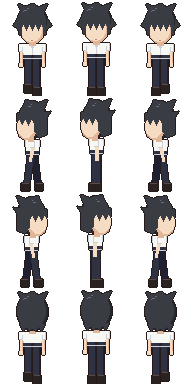
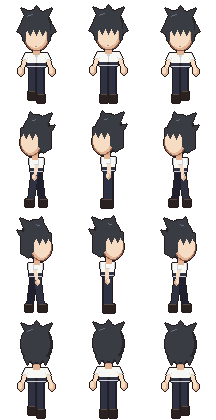
歩行グラフィックを参考と同じドット数（1コマ72×105px）にし、腕を外へ開いて手を大きく、あごと首を分ける
Claude-Session: https://claude.ai/code/session_017gxvkc2TW4xYgG5MuSL3N1

Changed region(s): [[0.7188, 0.0, 0.9375, 1.0], [0.0625, 0.0, 0.2812, 1.0], [0.4062, 0.0, 0.625, 1.0]]

diff --git a/files.js b/files.js
@@ -2,7 +2,7 @@
 // マップなどを足したら scripts に1行足す（順番どおりに読み込む。main.js は最後）。
 // 版の番号 v は tools/stamp.py が書き換える。
 window.FILES = {
-  v: '20261127023249',
+  v: '20261127023703',
   scripts: [
     'engine/core.js',
     'engine/world.js',

diff --git a/tools/sprites/make_chars.py b/tools/sprites/make_chars.py
@@ -1,4 +1,4 @@
-"""キャラクターの歩行グラフィックを一から描いて img/chars/*.png に書き出す（1コマ64×96px、等倍表示）。
+"""キャラクターの歩行グラフィックを一から描いて img/chars/*.png に書き出す（1コマ72×105px＝参考と同じ、等倍表示）。
 比率は参考のドットを測って合わせた。マップに合わせて、やや上から見下ろす角度で描く（頭頂の髪が厚く、顔と目は頭の下寄り、首はほぼ見えず、胴と脚は縦に詰まり、靴は甲が見える）。
 
 使い方：python3 tools/sprites/make_chars.py
@@ -10,8 +10,9 @@ from pathlib import Path
 from PIL import Image, ImageDraw
 
 ROOT = Path(__file__).resolve().parents[2]
-FW, FH = 64, 96
-CX = 32
+FW, FH = 72, 105  # 参考のドットと同じ1コマの大きさ
+CX = 36
+SY, OY = 1.02, 8  # 全身の高さを参考と同じ約94pxに（上端 y≈10、足元 y≈103）
 OUTLINE = (38, 26, 26, 255)
 
 
@@ -33,8 +34,8 @@ class Pen:
 
     def t(self, x, y):
         if self.k != 1:  # 頭
-            return (round(CX + x * HEAD_KX), round(y * HEAD_KY))
-        return (round(CX + x * KX), round(body_y(y)))
+            return (round(CX + x * HEAD_KX), round(OY + y * HEAD_KY * SY))
+        return (round(CX + x * KX), round(OY + body_y(y) * SY))
 
     def b(self, box):
         x0, y0, x1, y1 = box
@@ -73,7 +74,7 @@ HEAD_KX, HEAD_KY = 1.0, 1.12  # 頭の倍率（横・縦）
 HEAD_K = 1.12
 # やや上から見下ろす角度：胴から下の縦位置を、参考を測った比率に合わせて詰める
 # （あご≒全身の39%、胴は短く、スカートは55〜83%、靴は87〜99%）
-BODY_Y = [(0, 0), (44, 40), (56, 52), (80, 80), (91, 92), (96, 96)]
+BODY_Y = [(0, 0), (44, 43), (56, 54), (80, 80), (91, 92), (96, 96)]  # 44→43：あごの下に首を見せる
 
 
 def body_y(y):
@@ -131,11 +132,6 @@ def legs_side(p, ch, step):
 # ---------------- 胴（短め） ----------------
 def body_front(p, ch, back=False):
     girl = ch['gender'] == 'girl'
-    for s in (-1, 1):  # 腕（半袖）
-        x0 = -16 if s < 0 else 12
-        p.rect((x0, 44, x0 + 4, 51), 'W', 'w')
-        p.rect((x0 + 1, 52, x0 + 3, 62), 'S', 's')
-        p.rect((x0, 62, x0 + 3, 65), 'S')
     if girl:  # 裾の広がったスカート
         p.poly([(-11, 55), (11, 55), (18, 80), (-18, 80)], 'K')
         for x in (-10, -4, 4, 10):
@@ -157,6 +153,16 @@ def body_front(p, ch, back=False):
         p.poly([(-3, 51), (3, 51), (2, 56), (-2, 56)], 'R')
         p.poly([(-3, 51), (-7, 54), (-3, 54)], 'R')
         p.poly([(3, 51), (7, 54), (3, 54)], 'R')
+    arms_front(p)
+
+
+def arms_front(p):
+    """腕（半袖）：肩から外へ開き、手はスカートの横に出す"""
+    for s in (-1, 1):
+        p.poly([(s * 10, 44), (s * 14, 44), (s * 17, 51), (s * 13, 52)], 'w')
+        p.poly([(s * 10, 44), (s * 13, 44), (s * 16, 50), (s * 13, 51)], 'W')
+        p.poly([(s * 13, 52), (s * 16, 51), (s * 20, 61), (s * 17, 62)], 'S')
+        p.ell((s * 19 - 3, 59, s * 19 + 3, 66), 'S', 's')
 
 
 def body_side(p, ch, step):
@@ -175,7 +181,7 @@ def body_side(p, ch, step):
         p.poly([(-9, 48), (-6, 48), (-6, 54), (-9, 54)], 'R')
     p.rect((-2, 45, 3, 51), 'W', 'w')  # 手前の腕（歩くと前後にふれる）
     p.poly([(-1, 52), (2, 52), (2 + swing, 62), (-1 + swing, 62)], 'S')
-    p.rect((-1 + swing, 62, 2 + swing, 64), 'S')
+    p.ell((-2 + swing, 60, 3 + swing, 66), 'S', 's')
 
 
 # ---------------- 頭 ----------------
@@ -194,7 +200,9 @@ def head_front(p, ch):
         p.poly([(5, 3), (15, -1), (11, 7)], 'H')
         p.poly([(-15, 13), (-19, 19), (-14, 22)], 'H')
         p.poly([(15, 13), (19, 19), (14, 22)], 'H')
-    p.rect((-3, 33, 3, 37), 's')
+    p.rect((-3, 33, 3, 39), 's')
+    p.rect((-3, 34, 3, 36), 'n')  # あごの下の影
+    p.ell((-12, 13, 12, 36), 'o')  # あごの線
     p.ell((-11, 13, 11, 35), 'S', 's')
     if boy:
         p.poly([(-12, 12), (12, 12), (12, 22), (9, 18), (6, 23), (3, 17), (0, 23), (-3, 17), (-6, 23), (-9, 18), (-12, 22)], 'H')
@@ -231,7 +239,9 @@ def head_side(p, ch):
         p.poly([(10, 11), (18, 10), (12, 18)], 'H')
         p.poly([(-8, 4), (-6, -2), (0, 3)], 'H')
         p.poly([(8, 23), (14, 26), (8, 29)], 'H')
-    p.rect((-4, 33, 1, 37), 's')
+    p.rect((-4, 33, 1, 39), 's')
+    p.rect((-4, 34, 1, 36), 'n')
+    p.ell((-16, 13, 5, 36), 'o')
     p.ell((-15, 13, 4, 35), 'S', 's')
     p.poly([(2, 11), (14, 11), (14, 30), (7, 33), (2, 28)], 'H')
     if boy:
@@ -253,7 +263,8 @@ def head_side(p, ch):
 def head_back(p, ch):
     p.k = HEAD_K
     boy = ch['gender'] == 'boy'
-    p.rect((-3, 32, 3, 37), 's')
+    p.rect((-3, 32, 3, 39), 's')
+    p.rect((-3, 32, 3, 35), 'n')
     if not boy:
         p.rect((-13, 16, 13, 43), 'H', 'h')
         p.poly([(-12, 6), (-19, 9), (-20, 24), (-18, 46), (-15, 40), (-13, 16)], 'h')
@@ -305,8 +316,8 @@ def frame(ch, d, step):
         head_side(upper, ch)
     im = Image.new('RGBA', (FW, FH), (0, 0, 0, 0))
     # 全体を少し下げ、足元をコマの下端近くにそろえる
-    im.alpha_composite(lower.im, (0, 3))
-    im.alpha_composite(upper.im, (0, 3 + bob))
+    im.alpha_composite(lower.im, (0, 0))
+    im.alpha_composite(upper.im, (0, bob))
     im = outline(im)
     if d == 'right':
         im = im.transpose(Image.FLIP_LEFT_RIGHT)
@@ -319,7 +330,7 @@ CHARS = {
         'pal': {
             'H': '#3a3c44', 'h': '#25272d', 'L': '#6a6e7a',
             'S': '#f7dcc4', 's': '#e2b597', 'm': '#c9826e',
-            'W': '#f7f7f3', 'w': '#cdd0d8', 'P': '#2f3242', 'q': '#1f2130', 'B': '#2a2220', 'b': '#5a4a42',
+            'W': '#f7f7f3', 'w': '#cdd0d8', 'P': '#2f3242', 'q': '#1f2130', 'B': '#2a2220', 'b': '#5a4a42', 'n': '#d8a282', 'o': '#8a5a48',
         },
     },
     'yui': {
@@ -329,7 +340,7 @@ CHARS = {
             'S': '#f8ddc6', 's': '#e4b89b', 'p': '#f4aa9e', 'm': '#c9806c',
             'E': '#2e1d1a', 'I': '#8a4a2c', 'J': '#d4924f', 'e': '#ffffff',
             'W': '#f7f7f3', 'w': '#d0d3da', 'N': '#2f3e68', 'R': '#c8343f',
-            'K': '#2f3e68', 'k': '#1f2a4a', 'B': '#4a3226', 'b': '#7a5a44',
+            'K': '#2f3e68', 'k': '#1f2a4a', 'B': '#4a3226', 'b': '#7a5a44', 'n': '#d8a282', 'o': '#8a5a48',
         },
     },
 }

diff --git a/CLAUDE.md b/CLAUDE.md
@@ -10,7 +10,7 @@
 - 校舎（廊下8枚と部屋の型）は `tools/gen_school.py` で生成する。生成した `data/maps/school_*.js` は直接直さず、スクリプトを直して作り直す。お話のイベントは `data/story.js` に `G.addEvents` で足す（`at: '扉の名前'` で位置を決められる）。見取り図の施設名のうち学校が特定されそうな名前は一般的な名前に変える
 - 参考にした市販ゲームのファイル（データ・画像・音・シナリオ）はこのリポジトリに入れない
 - タイル素材（ドット絵世界）は二次配布禁止。元のPNGは入れず、`tools/encode_tileset.py` で変換した `data/tilesets/*.js` だけを入れる。タイトル画面の著作権表示（system.js の credits）は消さない
-- キャラの歩行グラフィックは `tools/sprites/make_chars.py` で一から描いている（1コマ64×96px・等倍。比率は参考のドットを測って合わせる。マップに合わせ、やや上から見下ろす角度で描く（頭頂の髪が厚く、顔と目は頭の下寄り、首はほぼ見えず、胴と脚は縦に詰まり、靴は甲が見える。頭の高さは全身の約4割・頭の幅は肩幅くらい、胴は短め、脚は短く靴は太い）。見た目の印象で描かず、参考があれば必ず測ってから描く。顔・髪・目・胴などの部品を図形で描き、輪郭は自動。色はパレット）。男子は目を描かない、女子は大きな目、という描き分けが好み。直したらこれを動かして `img/chars/*.png` を作り直す。参考素材は写さない
+- キャラの歩行グラフィックは `tools/sprites/make_chars.py` で一から描いている（1コマ72×105px＝参考と同じドット数・全身約94px・等倍。腕は肩から外へ開き手は大きめ、あごの下は線と影で首と分ける。比率は参考のドットを測って合わせる。マップに合わせ、やや上から見下ろす角度で描く（頭頂の髪が厚く、顔と目は頭の下寄り、首はほぼ見えず、胴と脚は縦に詰まり、靴は甲が見える。頭の高さは全身の約4割・頭の幅は肩幅くらい、胴は短め、脚は短く靴は太い）。見た目の印象で描かず、参考があれば必ず測ってから描く。顔・髪・目・胴などの部品を図形で描き、輪郭は自動。色はパレット）。男子は目を描かない、女子は大きな目、という描き分けが好み。直したらこれを動かして `img/chars/*.png` を作り直す。参考素材は写さない
 - 字体：ゲームの文字は M+ 1m（`fonts/mplus-1m-regular.ttf`、M+ FONTS は自由に使用・配布できる）。`G.font()` と css/style.css で指定している。収録外の文字（♪など）は端末のフォントになる
 - 公開は gh-pages ブランチから。更新したら、まず `python3 tools/stamp.py`（files.js の版の番号を新しくする。ブラウザが古いファイルを使い回して新旧が混ざるのを防ぐ）、コミットして `git push origin main main:gh-pages` で両方に送る。そのあと `gh api repos/nzanke/game-test/actions/runs` で「pages build and deployment」が新しいコミットで completed success になったのを確かめてから報告する。ビルドが走らないときは空のコミットを送り直す（Pages 設定のAPIは作業環境から使えない）
 - やりとりと説明は日本語で
